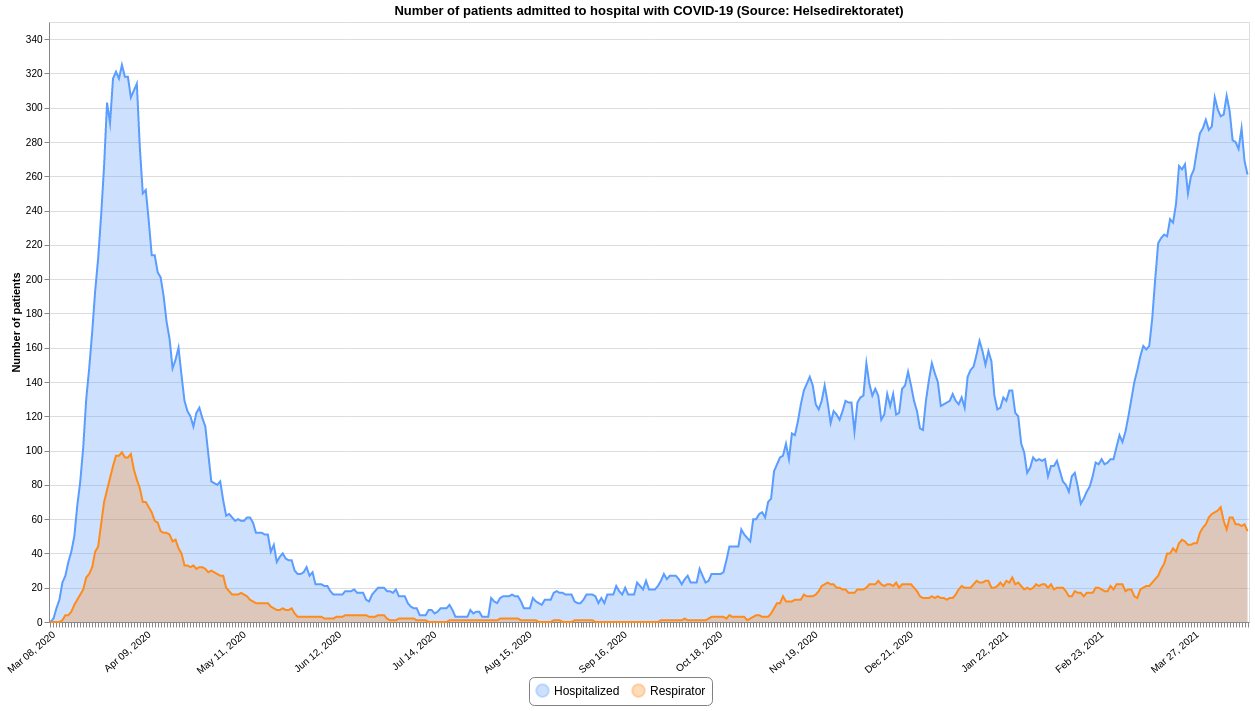
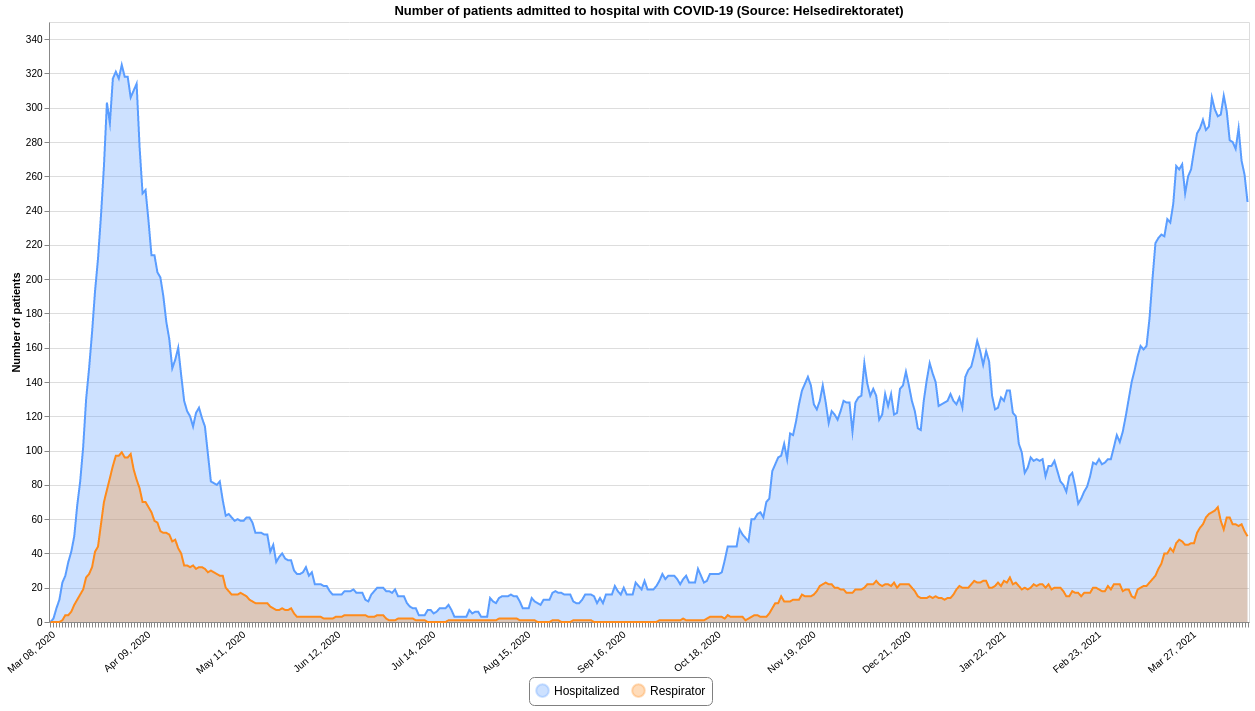
Updated 2021-04-15 13:00

diff --git a/README.md b/README.md
@@ -12,8 +12,8 @@ This repository contains datasets of daily time-series data related to COVID-19 
 | :--- | :--- | :--- | :--- | :--- |
 |[Confirmed](#confirmedcsv)|FHI / MSIS|2021-04-15 00:10:49+02:00|[<center>csv</center>](https://raw.githubusercontent.com/frefrik/c19norge-data/main/data/confirmed.csv)|[<center>preview</center>](data/confirmed.csv)|
 |[Dead](#deadcsv)|FHI|2021-04-14 13:20:49+02:00|[<center>csv</center>](https://raw.githubusercontent.com/frefrik/c19norge-data/main/data/dead.csv)|[<center>preview</center>](data/dead.csv)|
-|[Hospitalized](#hospitalizedcsv)|Helsedirektoratet|2021-04-14 13:00:44+02:00|[<center>csv</center>](https://raw.githubusercontent.com/frefrik/c19norge-data/main/data/hospitalized.csv)|[<center>preview</center>](data/hospitalized.csv)|
-|[Tested](#testedcsv)|FHI|2021-04-14 13:00:43+02:00|[<center>csv</center>](https://raw.githubusercontent.com/frefrik/c19norge-data/main/data/tested.csv)|[<center>preview</center>](data/tested.csv)|
+|[Hospitalized](#hospitalizedcsv)|Helsedirektoratet|2021-04-15 13:00:45+02:00|[<center>csv</center>](https://raw.githubusercontent.com/frefrik/c19norge-data/main/data/hospitalized.csv)|[<center>preview</center>](data/hospitalized.csv)|
+|[Tested](#testedcsv)|FHI|2021-04-15 13:00:43+02:00|[<center>csv</center>](https://raw.githubusercontent.com/frefrik/c19norge-data/main/data/tested.csv)|[<center>preview</center>](data/tested.csv)|
 |[Tested Lab](#tested_labcsv)|FHI|2021-04-14 13:20:44+02:00|[<center>csv</center>](https://raw.githubusercontent.com/frefrik/c19norge-data/main/data/tested_lab.csv)|[<center>preview</center>](data/tested_lab.csv)|
 |[Transport](#transportcsv)|FHI|2021-04-15 12:30:49+02:00|[<center>csv</center>](https://raw.githubusercontent.com/frefrik/c19norge-data/main/data/transport.csv)|[<center>preview</center>](data/transport.csv)|
 |[Vaccine Doses](#vaccine_dosescsv)|FHI|2021-04-14 13:20:50+02:00|[<center>csv</center>](https://raw.githubusercontent.com/frefrik/c19norge-data/main/data/vaccine_doses.csv)|[<center>preview</center>](data/vaccine_doses.csv)|
